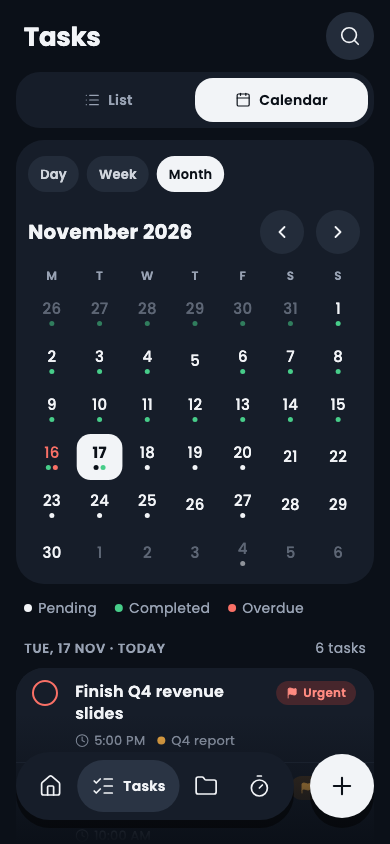
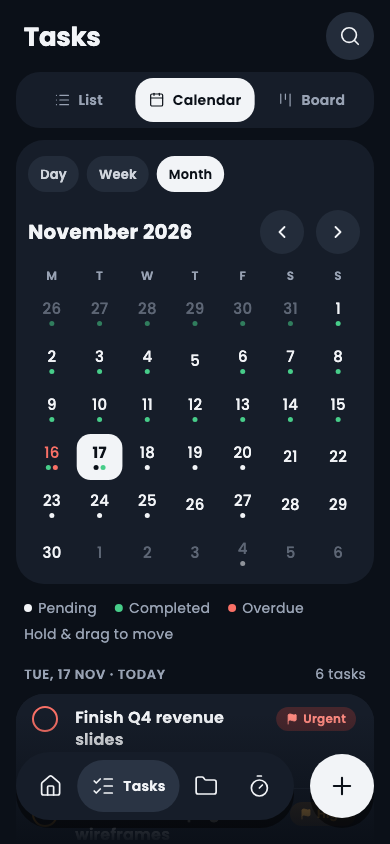
docs: v1.1.0 README, screenshots and accessibility checks
Version 1.1.0 (Settings reads ctrlTask 1.1). README adds a New in v1.1 row (board, quick-add hints, backup, backup failed) and the v1.1 features; the calendar screenshot shows the drag hint. The accessibility test now covers S21's month view and S43.

diff --git a/test/accessibility_test.dart b/test/accessibility_test.dart
@@ -1,5 +1,7 @@
 import 'package:ctrltask/core/router/app_router.dart';
+import 'package:ctrltask/features/data_transfer/domain/backup.dart';
 import 'package:ctrltask/features/settings/domain/preferences_repository.dart';
+import 'package:ctrltask/features/tasks/presentation/tasks_providers.dart';
 import 'package:flutter/material.dart';
 import 'package:flutter_test/flutter_test.dart';
 
@@ -98,6 +100,32 @@ void main() {
           semantics.dispose();
         });
       }
+
+      testWidgets('S21 month calendar with drag hint', (tester) async {
+        final semantics = tester.ensureSemantics();
+        final app = seeded();
+        await app.pump(tester, brightness: brightness);
+        app.container.read(tasksViewModeProvider.notifier).view =
+            TasksView.calendar;
+        app.router.go(Routes.tasks);
+        await tester.pumpAndSettle();
+        await meetsGuidelines(tester);
+        semantics.dispose();
+      });
+
+      testWidgets('S43 backup failed', (tester) async {
+        final semantics = tester.ensureSemantics();
+        final app = seeded();
+        app.backupStore.failure = (
+          at: DateTime(2026, 11, 17, 2),
+          reason: BackupFailureReason.noSpace,
+          neededBytes: 1258291,
+          automatic: true,
+        );
+        await app.pump(tester, location: Routes.backup, brightness: brightness);
+        await meetsGuidelines(tester);
+        semantics.dispose();
+      });
 
       testWidgets('board', (tester) async {
         final semantics = tester.ensureSemantics();

diff --git a/lib/core/app_info.dart b/lib/core/app_info.dart
@@ -1,6 +1,6 @@
 /// The app's version, as `pubspec.yaml` has it without the build number.
 /// A test keeps the two in step; there's no package for it on the stack.
-const appVersion = '1.0.0';
+const appVersion = '1.1.0';
 
-/// "1.0": major.minor, as S35's footer shows it.
+/// "1.1": major.minor, as S35's footer shows it.
 String get appVersionShort => appVersion.split('.').take(2).join('.');

diff --git a/test/features/settings/presentation/settings_screen_test.dart b/test/features/settings/presentation/settings_screen_test.dart
@@ -79,7 +79,7 @@ void main() {
         'No backups yet',
         'DATA',
         'Erase all data',
-        'ctrlTask 1.0 · by BrendanLTW',
+        'ctrlTask 1.1 · by BrendanLTW',
       ]) {
         expect(find.text(text), findsOneWidget, reason: text);
       }

diff --git a/test/core/app_info_test.dart b/test/core/app_info_test.dart
@@ -14,6 +14,6 @@ void main() {
   });
 
   test('the short form is major.minor', () {
-    expect(appVersionShort, '1.0');
+    expect(appVersionShort, '1.1');
   });
 }

diff --git a/README.md b/README.md
@@ -11,6 +11,13 @@ Built in Flutter as a portfolio project, where architecture, tests and design fi
 | **Light** | <img src="docs/screenshots/home-light.png" width="120"> | <img src="docs/screenshots/tasks-light.png" width="120"> | <img src="docs/screenshots/calendar-light.png" width="120"> | <img src="docs/screenshots/projects-light.png" width="120"> | <img src="docs/screenshots/project-light.png" width="120"> | <img src="docs/screenshots/task-light.png" width="120"> | <img src="docs/screenshots/focus-light.png" width="120"> | <img src="docs/screenshots/insights-light.png" width="120"> |
 | **Dark** | <img src="docs/screenshots/home-dark.png" width="120"> | <img src="docs/screenshots/tasks-dark.png" width="120"> | <img src="docs/screenshots/calendar-dark.png" width="120"> | <img src="docs/screenshots/projects-dark.png" width="120"> | <img src="docs/screenshots/project-dark.png" width="120"> | <img src="docs/screenshots/task-dark.png" width="120"> | <img src="docs/screenshots/focus-dark.png" width="120"> | <img src="docs/screenshots/insights-dark.png" width="120"> |
 
+New in v1.1:
+
+| | Board | Quick add | Backup | Backup failed |
+|---|---|---|---|---|
+| **Light** | <img src="docs/screenshots/board-light.png" width="120"> | <img src="docs/screenshots/quick-add-light.png" width="120"> | <img src="docs/screenshots/backup-light.png" width="120"> | <img src="docs/screenshots/backup-failed-light.png" width="120"> |
+| **Dark** | <img src="docs/screenshots/board-dark.png" width="120"> | <img src="docs/screenshots/quick-add-dark.png" width="120"> | <img src="docs/screenshots/backup-dark.png" width="120"> | <img src="docs/screenshots/backup-failed-dark.png" width="120"> |
+
 ## Features
 
 - **Today at a glance.** Home shows a progress ring, your streak, focus time and what's done this week, an overdue banner, and today's tasks in order.
@@ -23,10 +30,14 @@ Built in Flutter as a portfolio project, where architecture, tests and design fi
 - **Insights:** completion rate and its change, tasks and focus by day, a 6-week trend and your power day.
 - **Local notifications:** task reminders, a daily plan, overdue nudges, session ends and a weekly review, with quiet hours.
 - **Export** to CSV or JSON for a range, light, dark or system theme, your week's start day, a default priority, and Erase all data.
+- **Board** *(v1.1)*. A project's tasks in To do, In progress and Done. Long-press to drag a card; into Done completes it with Undo, out of Done reopens it.
+- **Quick-add hints** *(v1.1)*. Type "tomorrow 9am", "friday", "!urgent", "#design" or "@Website redesign" in the title and quick add picks them up, then removes them from the title on save.
+- **Backup & restore** *(v1.1)*. A nightly backup while charging, Back up now, the newest few kept, and a restore that checks the whole file first and changes nothing if it can't use it.
+- **Drag to reschedule** *(v1.1)*. Hold a task on the month calendar and drop it on a day; its time stays.
 
 ## Tech stack
 
-Flutter (stable, Dart 3) · Riverpod 3 with code generation · Drift (SQLite) with versioned migrations · go_router with a `StatefulShellRoute` · freezed · intl · flutter_local_notifications with timezone · flutter_svg with bundled Lucide icons · share_plus and csv for export · very_good_analysis. Charts are drawn with `CustomPainter`, with no chart package.
+Flutter (stable, Dart 3) · Riverpod 3 with code generation · Drift (SQLite) with versioned migrations · go_router with a `StatefulShellRoute` · freezed · intl · flutter_local_notifications with timezone · workmanager (nightly backup) and file_picker (restore) · flutter_svg with bundled Lucide icons · share_plus and csv for export · very_good_analysis. Charts are drawn with `CustomPainter`, with no chart package.
 
 ## Architecture
 
@@ -101,7 +112,7 @@ CI runs codegen, analyze and the tests on every push.
 - [PRD](docs/PRD.md): requirements, screens and acceptance criteria
 - [DESIGN](docs/DESIGN.md): tokens and components
 - [Design notes](docs/design-notes.md): where the app knowingly differs from the designs
-- [Export formats](docs/export-format.md)
+- [Export and backup formats](docs/export-format.md)
 - [Performance](docs/performance.md)
 - [PLAN](docs/PLAN.md): the build, task by task
 

diff --git a/docs/PLAN.md b/docs/PLAN.md
@@ -146,5 +146,5 @@ Work top to bottom. Each task is sized for one Claude Code session and follows t
   Refs: S10, PRD §6.8, FR-20
 - [x] **5.5 Drag to reschedule.** Long-press a task in the S21 agenda and drop it on a day; the date changes and the time stays.
   Refs: S21, PRD §5.6, FR-20
-- [ ] **5.6 v1.1 release.** Run the accessibility and fidelity checklists for the new screens, update the README, and tag `v1.1.0`.
+- [x] **5.6 v1.1 release.** Run the accessibility and fidelity checklists for the new screens, update the README, and tag `v1.1.0`.
   Refs: PRD §11
